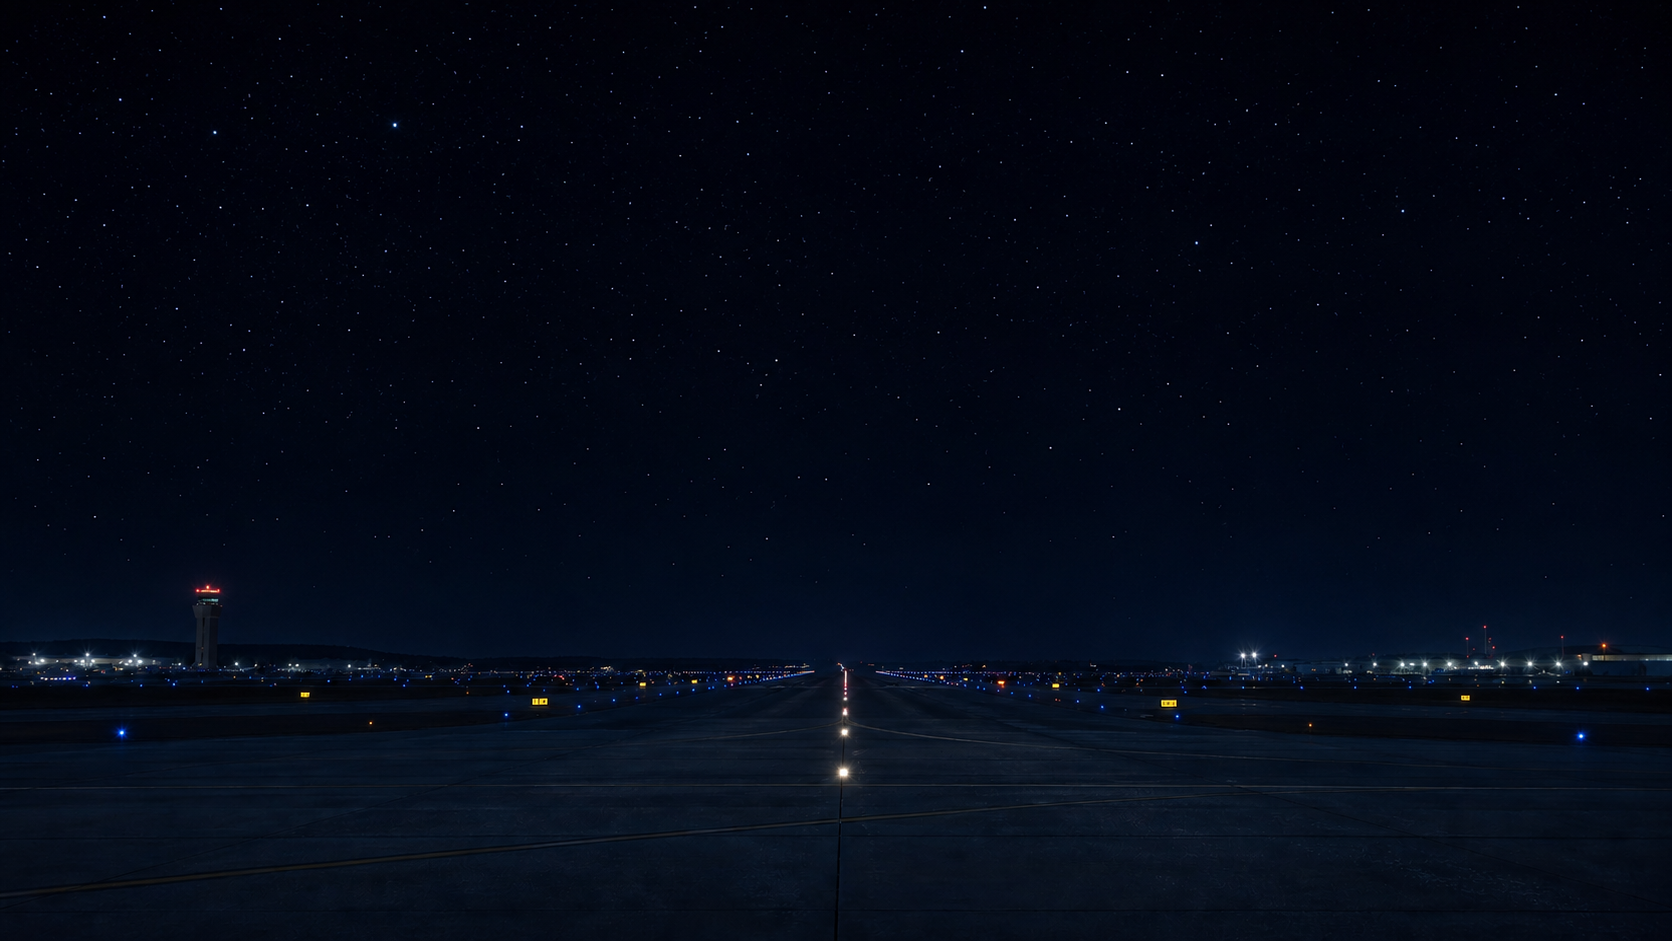
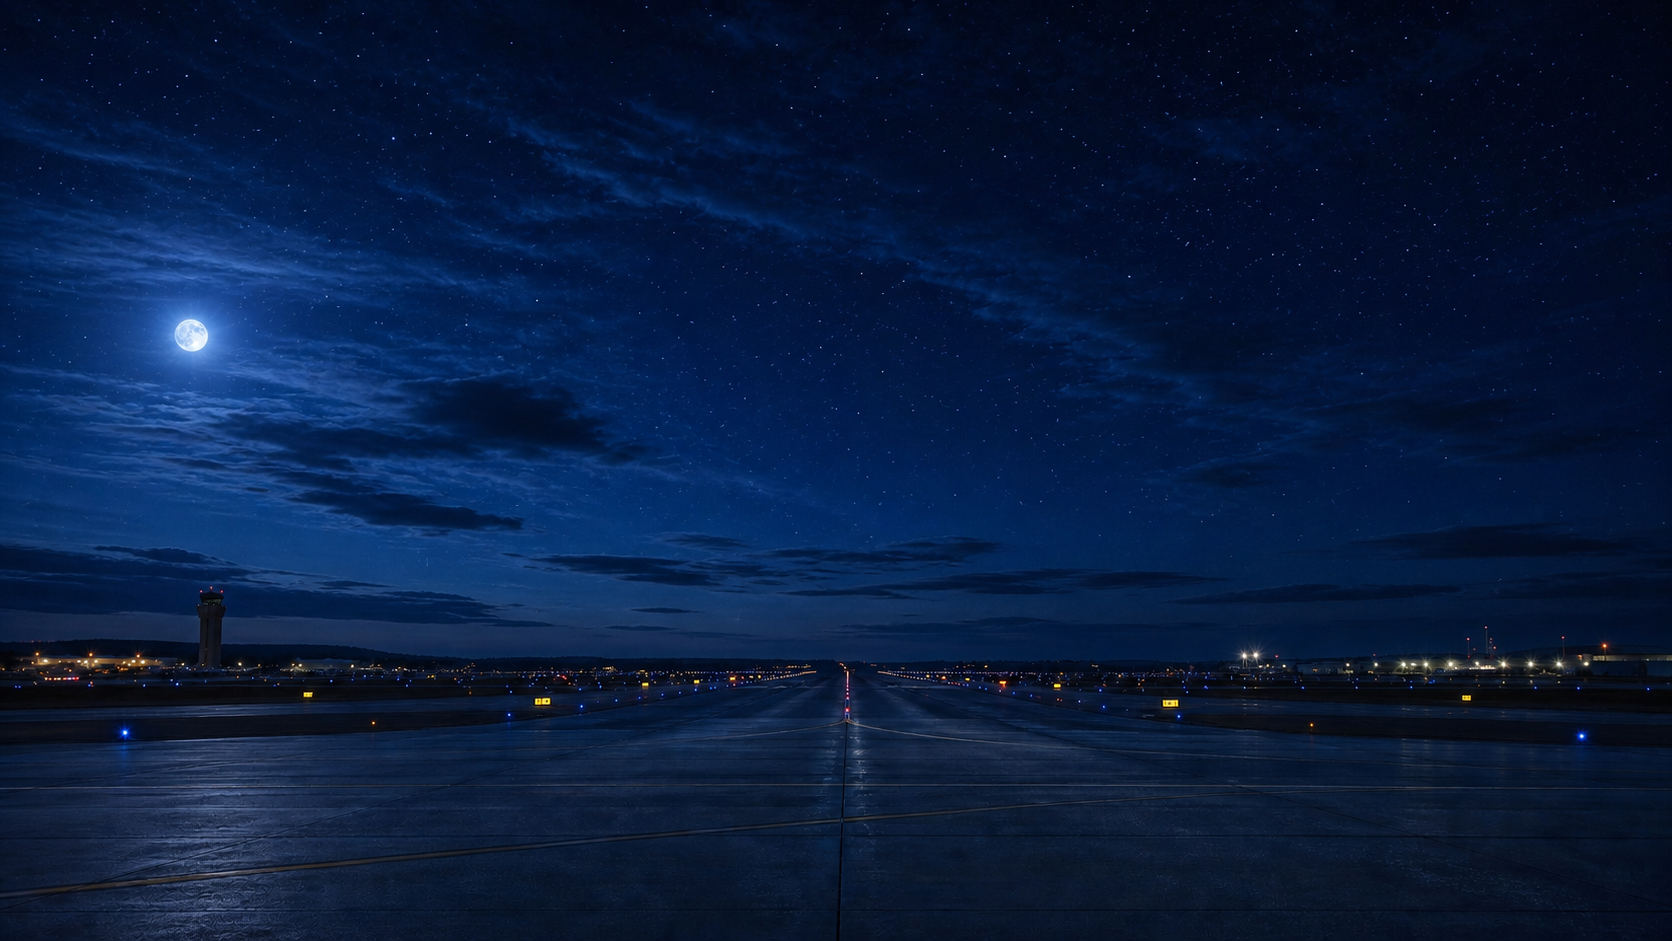
Refine animated weather scenes

diff --git a/app/weather-tuning-v3.css b/app/weather-tuning-v3.css
@@ -1,0 +1,45 @@
+/* Photographic scene grading: weather stays visible while the solar phase changes its light. */
+.sky-base{filter:brightness(.92) saturate(1.04) contrast(1.04)}
+.phase-day .sky-base,.theme-clear.phase-day .sky-base{filter:brightness(1.01) saturate(1.08) contrast(1.02)}
+.phase-sunrise .sky-base{filter:brightness(.94) saturate(1.18) contrast(1.04) sepia(.1) hue-rotate(-5deg)}
+.phase-sunset .sky-base{filter:brightness(.92) saturate(1.2) contrast(1.04) sepia(.08)}
+.phase-night .sky-base{filter:brightness(.82) saturate(1.18) contrast(1.08)}
+.phase-night .shade{opacity:.64}
+.phase-night .sky::after{background:radial-gradient(circle at 76% 18%,rgba(94,151,198,.14),transparent 25%),linear-gradient(180deg,rgba(0,4,10,.12),transparent 52%,rgba(0,3,7,.44)),linear-gradient(90deg,rgba(0,5,10,.34),transparent 52%,rgba(0,5,10,.31))}
+
+.theme-rain .sky-base,.theme-heavy-rain .sky-base{filter:brightness(.9) saturate(.9) contrast(1.08)}
+.theme-rain.phase-sunrise .sky-base,.theme-heavy-rain.phase-sunrise .sky-base{filter:brightness(.84) saturate(.98) contrast(1.08) sepia(.08)}
+.theme-rain.phase-sunset .sky-base,.theme-heavy-rain.phase-sunset .sky-base{filter:brightness(.82) saturate(1.03) contrast(1.08) sepia(.12)}
+.theme-rain.phase-night .sky-base,.theme-heavy-rain.phase-night .sky-base{filter:brightness(.69) saturate(.9) contrast(1.12)}
+.theme-thunderstorm .sky-base{filter:brightness(.75) saturate(.86) contrast(1.15)}
+.theme-thunderstorm.phase-night .sky-base{filter:brightness(.62) saturate(.82) contrast(1.18)}
+.theme-snow .sky-base{filter:brightness(.94) saturate(.76) contrast(1.02)}
+.theme-snow.phase-night .sky-base{filter:brightness(.72) saturate(.78) contrast(1.08)}
+.theme-fog .sky-base{filter:brightness(.92) saturate(.78) contrast(.96)}
+.theme-fog.phase-night .sky-base{filter:brightness(.7) saturate(.72) contrast(1)}
+
+/* Sparse foreground precipitation lets the photographic scene do the visual work. */
+.theme-rain .weather-fx,.theme-heavy-rain .weather-fx,.theme-thunderstorm .weather-fx{inset:-12% -8%;background-image:linear-gradient(104deg,transparent 0 48%,rgba(213,234,240,.65) 49%,transparent 50% 100%),linear-gradient(104deg,transparent 0 48%,rgba(189,219,229,.48) 49%,transparent 50% 100%);background-size:240px 310px,380px 520px;background-position:0 0,91px 122px;opacity:.07;animation:weatherRainV3 1.1s linear infinite;mask-image:linear-gradient(180deg,transparent,black 18%,black 87%,transparent)}
+.theme-heavy-rain .weather-fx{opacity:.11;animation-duration:.72s}
+.theme-thunderstorm .weather-fx{opacity:.06;animation-duration:.8s}
+.theme-rain .sky::after,.theme-heavy-rain .sky::after,.theme-thunderstorm .sky::after{background:linear-gradient(180deg,rgba(4,9,14,.2),transparent 48%,rgba(0,4,7,.42)),linear-gradient(90deg,rgba(0,5,8,.38),transparent 50%,rgba(0,5,8,.35))}
+
+.theme-snow .weather-fx{background-image:radial-gradient(circle,#fff 0 1.5px,transparent 2.3px),radial-gradient(circle,#dceafb 0 2px,transparent 3px),radial-gradient(circle,#fff 0 1px,transparent 1.8px);background-size:164px 188px,251px 286px,127px 149px;background-position:0 0,61px 87px,28px 49px;opacity:.16;animation:weatherSnowV3 18s linear infinite;mask-image:linear-gradient(180deg,transparent,black 9%,black 92%,transparent)}
+.theme-snow .sky::after{background:linear-gradient(180deg,rgba(126,154,169,.08),transparent 58%,rgba(2,8,11,.36)),linear-gradient(90deg,rgba(2,8,11,.28),transparent 50%,rgba(2,8,11,.27))}
+
+.theme-fog .fog-layer{inset:47% -18% -8%;opacity:.15;filter:blur(30px);animation:fogDriftV3 36s ease-in-out infinite alternate}
+.theme-fog .sky::after{background:linear-gradient(180deg,rgba(185,202,207,.04),transparent 42%,rgba(2,8,11,.24)),linear-gradient(90deg,rgba(3,8,11,.2),transparent 52%,rgba(3,8,11,.2))}
+
+/* A recognizable bolt and cloud flash replace the old full-screen striped storm. */
+.theme-thunderstorm .sky{animation:stormAmbientV3 8s linear infinite}
+.theme-thunderstorm .sky::before{content:"";position:absolute;z-index:5;top:9%;left:67%;width:clamp(54px,5vw,100px);height:42%;background:linear-gradient(180deg,#f8fbff,#acd8ff 72%,transparent);clip-path:polygon(45% 0,64% 0,53% 30%,73% 30%,42% 66%,55% 66%,23% 100%,37% 58%,25% 58%,47% 23%,36% 23%);filter:drop-shadow(0 0 7px #d7edff) drop-shadow(0 0 22px #79bfff);opacity:0;animation:stormBoltV3 8s steps(1,end) infinite}
+
+.weather-glyph,.forecast-grid span{font-family:"Segoe UI Symbol","Segoe UI Emoji",sans-serif}
+
+@keyframes weatherRainV3{to{background-position:64px 310px,155px 520px}}
+@keyframes weatherSnowV3{to{background-position:48px 188px,-34px 286px,55px 149px}}
+@keyframes fogDriftV3{from{transform:translate3d(-5%,0,0) scale(1)}to{transform:translate3d(8%,-1%,0) scale(1.06)}}
+@keyframes stormAmbientV3{0%,49%,52%,54%,100%{filter:none}50%{filter:brightness(1.5)}51%,53%{filter:brightness(1.15)}}
+@keyframes stormBoltV3{0%,49%,52%,100%{opacity:0}50%{opacity:1}51%{opacity:.32}}
+
+@media(prefers-reduced-motion:reduce){.theme-rain .weather-fx,.theme-heavy-rain .weather-fx,.theme-thunderstorm .weather-fx,.theme-snow .weather-fx,.theme-fog .fog-layer,.theme-thunderstorm .sky,.theme-thunderstorm .sky::before{animation:none!important}.theme-thunderstorm .sky::before{opacity:.18}}

diff --git a/app/page.tsx b/app/page.tsx
@@ -38,7 +38,7 @@ async function getWeather():Promise<Weather> {
   const forecast=[2,5,8].map(offset=>{const i=Math.min(start+offset,j.hourly.time.length-1);return {time:tm(j.hourly.time[i]),temperatureF:Math.round(j.hourly.temperature_2m[i]),condition:mapCode(j.hourly.weather_code[i],0).condition,precipitation:Math.round(j.hourly.precipitation_probability[i]||0)}});
   return {temperatureF:Math.round(j.current.temperature_2m),feelsLikeF:Math.round(j.current.apparent_temperature),...mapped,windSpeedMph:Math.round(j.current.wind_speed_10m),windDirection:windDirection(j.current.wind_direction_10m),humidity:Math.round(j.current.relative_humidity_2m),sunriseLocal:tm(j.daily.sunrise[0]),sunsetLocal:tm(j.daily.sunset[0]),observationTime:j.current.time,forecast,stale:false};
 }
-function weatherGlyph(c:Theme) { return ({clear:"☀",night:"☾",rain:"◒", "heavy-rain":"◒",thunderstorm:"ϟ",snow:"✣",fog:"≋",overcast:"●","partly-cloudy":"◕",sunrise:"◒",sunset:"◓",neutral:"—"} as Record<Theme,string>)[c]; }
+function weatherGlyph(c:Theme) { return ({clear:"☀",night:"☾",rain:"🌧", "heavy-rain":"🌧",thunderstorm:"⛈",snow:"❄",fog:"≋",overcast:"☁","partly-cloudy":"⛅",sunrise:"☀",sunset:"☀",neutral:"—"} as Record<Theme,string>)[c]; }
 function solarPhase(nowParts:Record<string,string>, sunrise:string, sunset:string):"day"|"night"|"sunrise"|"sunset" {
   const clock=Number(nowParts.hour)*60+Number(nowParts.minute), parse=(value:string)=>{const [h,m]=value.split(":").map(Number);return h*60+m};
   const rise=parse(sunrise), set=parse(sunset); if(!Number.isFinite(rise)||!Number.isFinite(set)) return clock<360||clock>1200?"night":"day";
@@ -49,7 +49,7 @@ function solarPhase(nowParts:Record<string,string>, sunrise:string, sunset:strin
 function solarProgress(nowParts:Record<string,string>, sunrise:string, sunset:string) { const parse=(v:string)=>{const [h,m]=v.split(":").map(Number);return h*60+m}, current=Number(nowParts.hour)*60+Number(nowParts.minute), rise=parse(sunrise), set=parse(sunset); return Number.isFinite(rise)&&Number.isFinite(set)?Math.max(0,Math.min(100,((current-rise)/(set-rise))*100)):0; }
 
 export default function Home() {
-  const [now,setNow]=useState(new Date()); const [weather,setWeather]=useState<Weather>(FALLBACK); const [online,setOnline]=useState(true); const [debug,setDebug]=useState<Theme|null>(null);
+  const [now,setNow]=useState(()=>new Date(0)); const [weather,setWeather]=useState<Weather>(FALLBACK); const [online,setOnline]=useState(true); const [debug,setDebug]=useState<Theme|null>(null);
   useEffect(()=>{ const id=setInterval(()=>setNow(new Date()),250); return()=>clearInterval(id); },[]);
   useEffect(()=>{
     const q=new URLSearchParams(location.search), sim=q.get("debugWeather") as Theme|null; if(sim&&DEBUG_THEMES.includes(sim)) setDebug(sim);
@@ -62,7 +62,7 @@ export default function Home() {
   const phase=debug&&["night","sunrise","sunset"].includes(debug)?debug:solarPhase(local,weather.sunriseLocal,weather.sunsetLocal);
   const condition=debug&&!(["night","sunrise","sunset"] as Theme[]).includes(debug)?debug:weather.condition;
   const imageBase=process.env.NEXT_PUBLIC_BASE_PATH||"";
-  const scene=condition==="thunderstorm"?"storm":condition==="snow"?"snow":condition==="fog"?"fog":phase==="sunrise"?"sunrise":phase==="sunset"?"sunset":phase==="night"?"night":condition==="clear"||condition==="partly-cloudy"?"clear":"blue-hour";
+  const scene=condition==="thunderstorm"?"storm":condition==="rain"||condition==="heavy-rain"?"rain":condition==="snow"?"snow":condition==="fog"?"fog":phase==="sunrise"?"sunrise":phase==="sunset"?"sunset":phase==="night"?"night":condition==="clear"||condition==="partly-cloudy"?"clear":"blue-hour";
   const solarPct=solarProgress(local,weather.sunriseLocal,weather.sunsetLocal);
   const updated=weather.observationTime?new Intl.DateTimeFormat("en-US",{timeZone:"UTC",hour:"2-digit",minute:"2-digit",hour12:false}).format(new Date(weather.observationTime))+"Z":"—";
   const zone=local.timeZoneName||"LOCAL";

diff --git a/public/service-worker.js b/public/service-worker.js
@@ -1,1 +1,1 @@
-const CACHE="airfield-clock-v4";const CORE=["./","./manifest.json","./airfield-blue-hour.png","./airfield-clear.png","./airfield-fog.png","./airfield-night.png","./airfield-snow.png","./airfield-storm.png","./airfield-sunrise.png","./airfield-sunset.png"];self.addEventListener("install",e=>e.waitUntil(caches.open(CACHE).then(c=>c.addAll(CORE))));self.addEventListener("activate",e=>e.waitUntil(caches.keys().then(k=>Promise.all(k.filter(x=>x!==CACHE).map(x=>caches.delete(x))))));self.addEventListener("fetch",e=>{if(e.request.method!=="GET")return;e.respondWith(fetch(e.request).then(r=>{const copy=r.clone();caches.open(CACHE).then(c=>c.put(e.request,copy));return r}).catch(()=>caches.match(e.request).then(r=>r||caches.match("./"))))});
+const CACHE="airfield-clock-v5";const CORE=["./","./manifest.json","./airfield-blue-hour.png","./airfield-clear.png","./airfield-fog.png","./airfield-night.png","./airfield-rain.png","./airfield-snow.png","./airfield-storm.png","./airfield-sunrise.png","./airfield-sunset.png"];self.addEventListener("install",e=>e.waitUntil(caches.open(CACHE).then(c=>c.addAll(CORE))));self.addEventListener("activate",e=>e.waitUntil(caches.keys().then(k=>Promise.all(k.filter(x=>x!==CACHE).map(x=>caches.delete(x))))));self.addEventListener("fetch",e=>{if(e.request.method!=="GET")return;e.respondWith(fetch(e.request).then(r=>{const copy=r.clone();caches.open(CACHE).then(c=>c.put(e.request,copy));return r}).catch(()=>caches.match(e.request).then(r=>r||caches.match("./"))))});

diff --git a/app/layout.tsx b/app/layout.tsx
@@ -5,5 +5,6 @@ import "./ops.css";
 import "./forecast-labels.css";
 import "./motion-v2.css";
 import "./layout-tuning.css";
+import "./weather-tuning-v3.css";
 export const metadata: Metadata = { title:"Airfield Operations Clock · KMEM", description:"Local and Zulu airfield operations clock with live weather." };
 export default function RootLayout({children}:{children:React.ReactNode}) { return <html lang="en"><body>{children}</body></html>; }